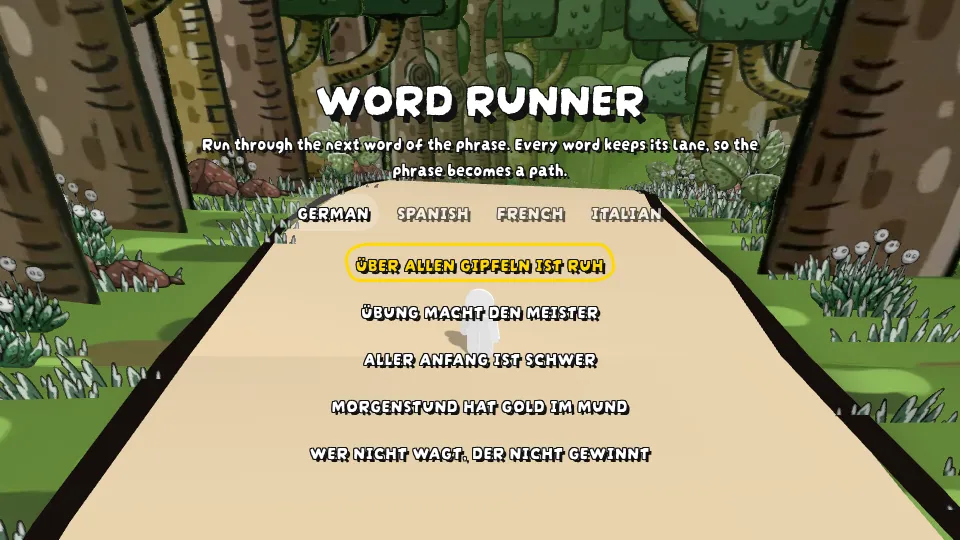
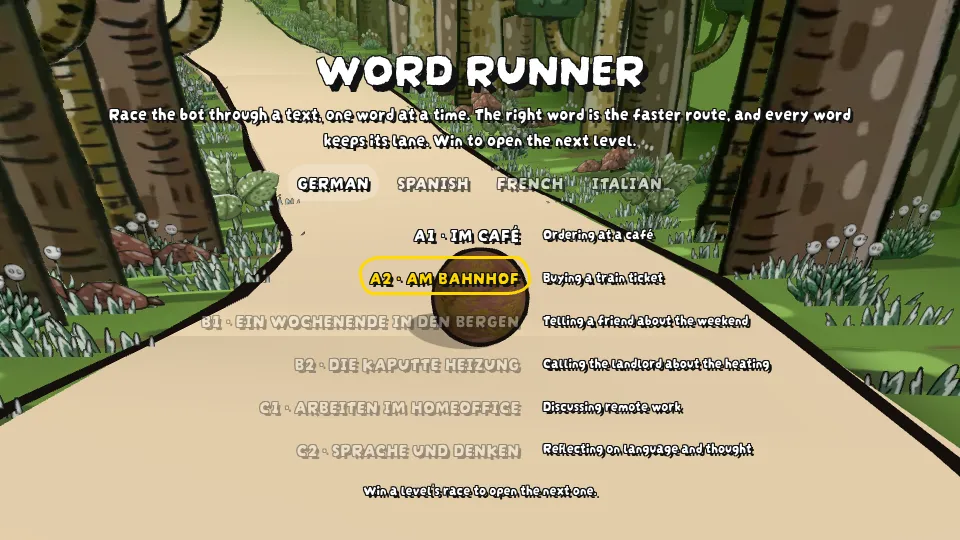
docs: show the Word Runner level race in its guide
New pictures of the start screen and of a race, taken from the running
game, and the level list laid out so long titles never wrap.

Claude-Session: https://claude.ai/code/session_018cy98BQB6Rocr9PpEVo7ZU

diff --git a/src/views/Games/WordRunner/game/WordRunnerStart.vue b/src/views/Games/WordRunner/game/WordRunnerStart.vue
@@ -77,7 +77,7 @@ const { focusedHint, inputSource } = useDialogFocusTrap(dialogReference)
   flex-direction: column;
   gap: var(--spacing-3);
   align-items: center;
-  max-width: 36rem;
+  max-width: 48rem;
   text-align: center;
   pointer-events: all;
 }
@@ -119,10 +119,12 @@ const { focusedHint, inputSource } = useDialogFocusTrap(dialogReference)
   display: grid;
   grid-template-columns: subgrid;
   grid-column: 1 / -1;
+  justify-items: end;
   align-items: center;
+  white-space: nowrap;
 }
 
 .word-runner-start__level .word-runner-start__situation {
-  text-align: left;
+  justify-self: start;
 }
 </style>

diff --git a/documentation/docs/guides/word-runner.md b/documentation/docs/guides/word-runner.md
@@ -15,7 +15,7 @@ next in the text. A bot races alongside, and the first ball over the finish line
 `src/views/Games/WordRunner/runner/`
 :::
 
-![A race on the German A1 level: the English sentence at the top, the three words floating across the lanes, the player's red ball and the bot's green one](/img/word-runner/race.webp)
+![Four moments of a race: the first German sentence with its hint, the player 20 m ahead after taking the right words, a Spanish race with missed words where the bot's ghost ball pulls ahead, and the end screen of a clean run](/img/word-runner/race.webp)
 
 ## Levels
 
@@ -36,7 +36,7 @@ language, so a level is equally hard whichever language it is run in.
 A first visit opens German, and after that the start screen opens on the language picked last.
 Only A1 is open at first: winning a level's race opens the next one in that language.
 
-![The start screen: the language picker with German selected, A1 open and the five levels after it still closed](/img/word-runner/start.webp)
+![The start screen: the language picker with German selected, A1 won and A2 open, and the four levels after it still closed](/img/word-runner/start.webp)
 
 ## How a race works
 
